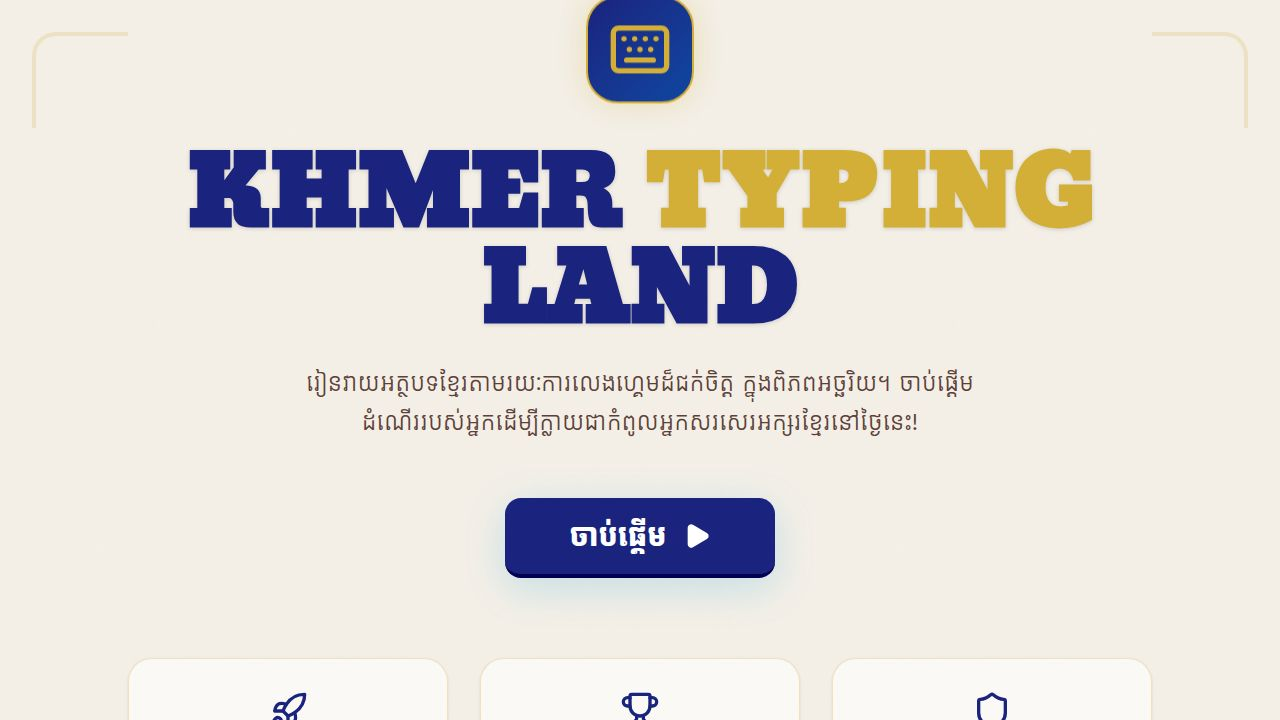
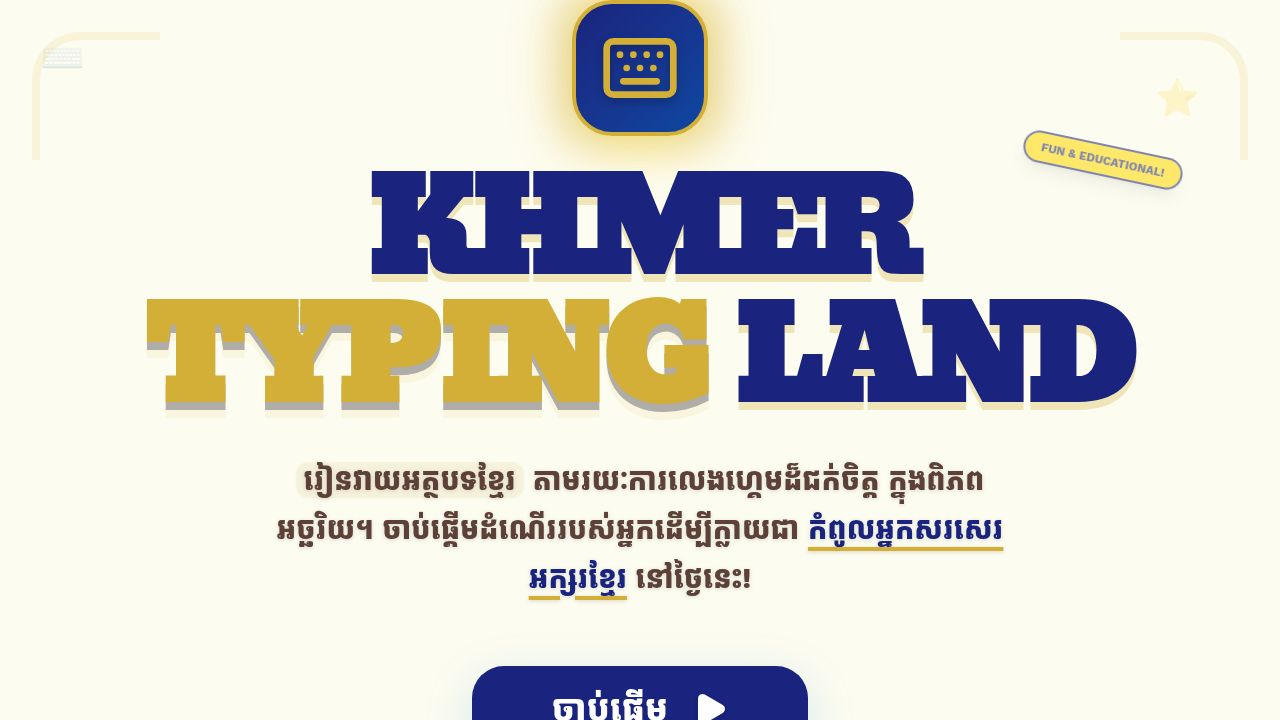
Make the game's homepage more cute, attractive, and student-friendly
Update the landing page with playful floating emojis, a new cloud background texture, larger and more visually engaging elements, and enhanced 3D button effects.

Replit-Commit-Author: Agent
Replit-Commit-Session-Id: ad04a579-d870-4a70-af42-988fc9f91a76
Replit-Commit-Checkpoint-Type: full_checkpoint
Replit-Commit-Event-Id: 3c97dc5f-b1ee-4a88-901f-280a3f48b660
Replit-Commit-Screenshot-Url: https://storage.googleapis.com/screenshot-production-us-central1/114f6e84-a1c7-4399-8666-2ebb4a394b0b/ad04a579-d870-4a70-af42-988fc9f91a76/YOGigWq
Replit-Helium-Checkpoint-Created: true

diff --git a/client/src/pages/Landing.tsx b/client/src/pages/Landing.tsx
@@ -41,83 +41,99 @@ export const Landing: React.FC = () => {
   };
 
   return (
-    <div className="min-h-screen bg-[#F5F1E9] flex flex-col items-center justify-center relative overflow-hidden font-body text-[#3E2723]">
+    <div className="min-h-screen bg-[#FDFCF0] flex flex-col items-center justify-center relative overflow-hidden font-body text-[#3E2723]">
+      {/* Playful Floating Elements */}
+      <div className="absolute top-10 left-10 text-4xl animate-bounce-slow opacity-20">⌨</div>
+      <div className="absolute top-20 right-20 text-4xl animate-bounce-slow opacity-20 delay-700">⭐</div>
+      <div className="absolute bottom-10 left-20 text-4xl animate-bounce-slow opacity-20 delay-1000">🎮</div>
+      <div className="absolute bottom-20 right-10 text-4xl animate-bounce-slow opacity-20 delay-300">🏆</div>
+
       {/* Texture: Krama / Sandstone */}
-      <div className="absolute inset-0 opacity-[0.03] pointer-events-none bg-[url('https://www.transparenttextures.com/patterns/pinstriped-suit.png')]" />
+      <div className="absolute inset-0 opacity-[0.05] pointer-events-none bg-[url('https://www.transparenttextures.com/patterns/cloud-fun.png')]" />
       
       {/* Angkor Watermark */}
-      <div className="absolute inset-0 opacity-[0.05] pointer-events-none flex items-center justify-center">
-        <div className="w-[80%] h-[80%] bg-[url('https://upload.wikimedia.org/wikipedia/commons/thumb/1/10/Angkor_Wat_silhouette.svg/1024px-Angkor_Wat_silhouette.svg.png')] bg-no-repeat bg-center bg-contain" />
+      <div className="absolute inset-0 opacity-[0.08] pointer-events-none flex items-center justify-center">
+        <div className="w-[85%] h-[85%] bg-[url('https://upload.wikimedia.org/wikipedia/commons/thumb/1/10/Angkor_Wat_silhouette.svg/1024px-Angkor_Wat_silhouette.svg.png')] bg-no-repeat bg-center bg-contain" />
       </div>
 
       {/* Kbach Corner Ornaments */}
-      <div className="absolute top-8 left-8 w-24 h-24 border-t-4 border-l-4 border-[#D4AF37]/40 rounded-tl-3xl opacity-50" />
-      <div className="absolute top-8 right-8 w-24 h-24 border-t-4 border-r-4 border-[#D4AF37]/40 rounded-tr-3xl opacity-50" />
-      <div className="absolute bottom-8 left-8 w-24 h-24 border-b-4 border-l-4 border-[#D4AF37]/40 rounded-bl-3xl opacity-50" />
-      <div className="absolute bottom-8 right-8 w-24 h-24 border-b-4 border-r-4 border-[#D4AF37]/40 rounded-br-3xl opacity-50" />
+      <div className="absolute top-8 left-8 w-32 h-32 border-t-8 border-l-8 border-[#D4AF37]/30 rounded-tl-[3rem] opacity-40" />
+      <div className="absolute top-8 right-8 w-32 h-32 border-t-8 border-r-8 border-[#D4AF37]/30 rounded-tr-[3rem] opacity-40" />
+      <div className="absolute bottom-8 left-8 w-32 h-32 border-b-8 border-l-8 border-[#D4AF37]/30 rounded-bl-[3rem] opacity-40" />
+      <div className="absolute bottom-8 right-8 w-32 h-32 border-b-8 border-r-8 border-[#D4AF37]/30 rounded-br-[3rem] opacity-40" />
 
-      <div className="container mx-auto px-4 text-center z-10 max-w-4xl">
+      <div className="container mx-auto px-4 text-center z-10 max-w-5xl">
         {!showPlayerSelect ? (
           <>
-            <div className="mb-10 flex justify-center">
-              <div className="p-5 bg-gradient-to-br from-[#1A237E] to-[#0D47A1] rounded-[2rem] border-2 border-[#D4AF37] shadow-[0_0_30px_rgba(212,175,55,0.3)] animate-bounce-slow">
-                <Keyboard size={64} className="text-[#D4AF37]" />
+            <div className="mb-8 flex justify-center">
+              <div className="relative group">
+                <div className="absolute -inset-4 bg-gradient-to-r from-[#D4AF37] via-[#FFD700] to-[#D4AF37] rounded-[2.5rem] blur-xl opacity-40 group-hover:opacity-60 transition duration-1000 group-hover:duration-200 animate-tilt"></div>
+                <div className="relative p-6 bg-gradient-to-br from-[#1A237E] to-[#0D47A1] rounded-[2.5rem] border-4 border-[#D4AF37] shadow-[0_0_40px_rgba(212,175,55,0.4)] transform hover:scale-105 transition-transform duration-500">
+                  <Keyboard size={80} className="text-[#D4AF37] drop-shadow-[0_4px_4px_rgba(0,0,0,0.25)]" />
+                </div>
               </div>
             </div>
 
-            <h1 className="text-6xl md:text-8xl font-black mb-6 tracking-normal font-display text-[#1A237E] drop-shadow-sm">
-              KHMER <span className="text-[#D4AF37]">TYPING</span> LAND
-            </h1>
+            <div className="relative inline-block mb-8">
+              <h1 className="text-7xl md:text-9xl font-black tracking-tighter font-display text-[#1A237E] drop-shadow-[0_8px_0_rgba(212,175,55,0.3)]">
+                KHMER <span className="text-[#D4AF37] drop-shadow-[0_8px_0_rgba(26,35,126,0.3)]">TYPING</span> LAND
+              </h1>
+              <div className="absolute -top-6 -right-12 bg-[#FFD700] text-[#1A237E] text-xs font-black px-4 py-1.5 rounded-full rotate-12 shadow-lg border-2 border-[#1A237E] animate-pulse">
+                FUN & EDUCATIONAL!
+              </div>
+            </div>
             
-            <p className="text-xl md:text-2xl mb-14 max-w-2xl mx-auto font-medium leading-relaxed text-[#5D4037]">
-              រៀនវាយអត្ថបទខ្មែរតាមរយៈការលេងហ្គេមដ៏ជក់ចិត្ត ក្នុងពិភពអច្ឆរិយ។
-              ចាប់ផ្តើមដំណើររបស់អ្នកដើម្បីក្លាយជាកំពូលអ្នកសរសេរអក្សរខ្មែរនៅថ្ងៃនេះ!
+            <p className="text-2xl md:text-3xl mb-16 max-w-3xl mx-auto font-bold leading-relaxed text-[#5D4037] drop-shadow-sm px-4">
+              <span className="bg-[#D4AF37]/10 px-2 rounded-lg">រៀនវាយអត្ថបទខ្មែរ</span> តាមរយៈការលេងហ្គេមដ៏ជក់ចិត្ត ក្នុងពិភពអច្ឆរិយ។
+              ចាប់ផ្តើមដំណើររបស់អ្នកដើម្បីក្លាយជា <span className="text-[#1A237E] underline decoration-[#D4AF37] decoration-4 underline-offset-8">កំពូលអ្នកសរសេរអក្សរខ្មែរ</span> នៅថ្ងៃនេះ!
             </p>
 
-            <div className="flex flex-col md:flex-row gap-6 justify-center items-center mb-20">
+            <div className="flex flex-col md:flex-row gap-8 justify-center items-center mb-24">
               <Button 
                 onClick={handleStart}
-                className="h-20 px-16 text-3xl font-black gap-4 rounded-2xl shadow-[0_10px_40px_rgba(26,35,126,0.25)] hover:scale-105 transition-all bg-[#1A237E] hover:bg-[#0D47A1] text-white border-b-4 border-[#000051]"
+                className="h-24 px-20 text-4xl font-black gap-6 rounded-[2rem] shadow-[0_15px_50px_rgba(26,35,126,0.3)] hover:scale-110 active:scale-95 transition-all bg-[#1A237E] hover:bg-[#0D47A1] text-white border-b-[10px] border-[#000051] relative overflow-hidden group"
               >
-                {currentPlayerId ? 'បន្តដំណើរ' : 'ចាប់ផ្តើម'} <Play size={28} fill="currentColor" />
+                <div className="absolute inset-0 bg-gradient-to-r from-transparent via-white/10 to-transparent -translate-x-full group-hover:translate-x-full transition-transform duration-1000"></div>
+                {currentPlayerId ? 'បន្តដំណើរ' : 'ចាប់ផ្តើម'} <Play size={36} fill="currentColor" className="drop-shadow-sm" />
               </Button>
               
               {Object.keys(players).length > 0 && (
                 <Button 
                   variant="outline"
                   onClick={() => setShowPlayerSelect(true)}
-                  className="h-20 px-8 text-xl font-bold gap-3 rounded-2xl border-2 border-[#1A237E] text-[#1A237E] hover:bg-[#1A237E]/5 transition-all"
+                  className="h-24 px-10 text-2xl font-black gap-4 rounded-[2rem] border-4 border-[#1A237E] text-[#1A237E] hover:bg-[#1A237E] hover:text-white transition-all shadow-[0_10px_0_#1A237E] hover:translate-y-1 hover:shadow-none active:translate-y-2"
                 >
-                  <Users size={24} /> ប្តូរអ្នកលេង
+                  <Users size={32} /> ប្តូរអ្នកលេង
                 </Button>
               )}
             </div>
 
-            <div className="grid grid-cols-1 md:grid-cols-3 gap-8 mx-auto">
-              <div className="bg-white/60 backdrop-blur-sm p-8 rounded-3xl border border-[#D4AF37]/30 shadow-sm hover:shadow-xl hover:-translate-y-2 transition-all group">
-                <div className="flex justify-center mb-6 text-[#1A237E] group-hover:scale-110 transition-transform"><Rocket size={40} /></div>
-                <h3 className="font-display text-[#1A237E] text-2xl mb-3">របៀបលេង ៣ បែប</h3>
-                <p className="text-base text-[#5D4037]">កម្មវិធីប្លែកៗគ្នាដែលជួយឱ្យការរៀនវាយអត្ថបទកាន់តែមានប្រសិទ្ធភាព និងមិនចេះជឿនណាយ។</p>
+            <div className="grid grid-cols-1 md:grid-cols-3 gap-10 mx-auto max-w-6xl pb-10">
+              <div className="bg-white p-10 rounded-[3rem] border-4 border-[#D4AF37]/20 shadow-[0_20px_0_rgba(212,175,55,0.1)] hover:shadow-[0_30px_0_rgba(212,175,55,0.15)] hover:-translate-y-4 transition-all group relative">
+                <div className="absolute -top-6 left-1/2 -translate-x-1/2 bg-[#1A237E] text-white p-4 rounded-2xl shadow-lg group-hover:scale-125 transition-transform duration-500"><Rocket size={32} /></div>
+                <h3 className="font-display text-[#1A237E] text-3xl mb-4 mt-4">របៀបលេង ៣ បែប</h3>
+                <p className="text-lg font-bold text-[#5D4037]/80 leading-snug">កម្មវិធីប្លែកៗគ្នាដែលជួយឱ្យការរៀនវាយអត្ថបទកាន់តែមានប្រសិទ្ធភាព និងមិនចេះជឿនណាយ។</p>
               </div>
-              <div className="bg-white/60 backdrop-blur-sm p-8 rounded-3xl border border-[#D4AF37]/30 shadow-sm hover:shadow-xl hover:-translate-y-2 transition-all group">
-                <div className="flex justify-center mb-6 text-[#1A237E] group-hover:scale-110 transition-transform"><Trophy size={40} /></div>
-                <h3 className="font-display text-[#1A237E] text-2xl mb-3">ការប្រមូលមេដាយ</h3>
-                <p className="text-base text-[#5D4037]">ទទួលបានមេដាយកិត្តិយស និងកម្រិតខ្ពស់នៅពេលអ្នកវាយអក្សរខ្មែរបានកាន់តែជំនាញ។</p>
+              <div className="bg-white p-10 rounded-[3rem] border-4 border-[#1A237E]/10 shadow-[0_20px_0_rgba(26,35,126,0.05)] hover:shadow-[0_30px_0_rgba(26,35,126,0.1)] hover:-translate-y-4 transition-all group relative">
+                <div className="absolute -top-6 left-1/2 -translate-x-1/2 bg-[#D4AF37] text-white p-4 rounded-2xl shadow-lg group-hover:scale-125 transition-transform duration-500"><Trophy size={32} /></div>
+                <h3 className="font-display text-[#1A237E] text-3xl mb-4 mt-4">ការប្រមូលមេដាយ</h3>
+                <p className="text-lg font-bold text-[#5D4037]/80 leading-snug">ទទួលបានមេដាយកិត្តិយស និងកម្រិតខ្ពស់នៅពេលអ្នកវាយអក្សរខ្មែរបានកាន់តែជំនាញ។</p>
               </div>
-              <div className="bg-white/60 backdrop-blur-sm p-8 rounded-3xl border border-[#D4AF37]/30 shadow-sm hover:shadow-xl hover:-translate-y-2 transition-all group">
-                <div className="flex justify-center mb-6 text-[#1A237E] group-hover:scale-110 transition-transform"><Shield size={40} /></div>
-                <h3 className="font-display text-[#1A237E] text-2xl mb-3">រក្សាទុកការរីកចម្រើន</h3>
-                <p className="text-base text-[#5D4037]">តាមដានការរីកចម្រើនរបស់អ្នក និងកម្រិតដែលអ្នកបានសម្រេចនៅគ្រប់ពិភពអច្ឆរិយ។</p>
+              <div className="bg-white p-10 rounded-[3rem] border-4 border-[#D4AF37]/20 shadow-[0_20px_0_rgba(212,175,55,0.1)] hover:shadow-[0_30px_0_rgba(212,175,55,0.15)] hover:-translate-y-4 transition-all group relative">
+                <div className="absolute -top-6 left-1/2 -translate-x-1/2 bg-[#1A237E] text-white p-4 rounded-2xl shadow-lg group-hover:scale-125 transition-transform duration-500"><Shield size={32} /></div>
+                <h3 className="font-display text-[#1A237E] text-3xl mb-4 mt-4">រក្សាទុកការរីកចម្រើន</h3>
+                <p className="text-lg font-bold text-[#5D4037]/80 leading-snug">តាមដានការរីកចម្រើនរបស់អ្នក និងកម្រិតដែលអ្នកបានសម្រេចនៅគ្រប់ពិភពអច្ឆរិយ។</p>
               </div>
             </div>
           </>
         ) : (
-          <div className="glass-panel p-10 rounded-[3rem] border-2 border-[#D4AF37]/30 max-w-2xl mx-auto shadow-2xl animate-in fade-in zoom-in duration-300">
-            <h2 className="font-display text-4xl text-[#1A237E] mb-8">ជ្រើសរើសអ្នកលេង</h2>
+          <div className="bg-white p-12 rounded-[4rem] border-4 border-[#D4AF37] max-w-2xl mx-auto shadow-[0_30px_60px_rgba(0,0,0,0.12)] animate-in fade-in zoom-in duration-500 relative">
+            <div className="absolute -top-10 -right-10 w-24 h-24 bg-[#FFD700] rounded-full flex items-center justify-center text-4xl shadow-xl border-4 border-white animate-bounce-slow">✨</div>
+            <h2 className="font-display text-5xl text-[#1A237E] mb-10 tracking-tight">ជ្រើសរើសអ្នកលេង</h2>
             
-            <div className="space-y-4 mb-10 max-h-[40vh] overflow-y-auto px-4 custom-scrollbar">
+            <div className="space-y-6 mb-12 max-h-[45vh] overflow-y-auto px-6 custom-scrollbar py-2">
               {Object.keys(players).map(id => (
-                <div key={id} className="flex gap-3 group">
+                <div key={id} className="flex gap-4 group">
                   <Button
                     onClick={() => {
                       switchPlayer(id);
@@ -125,14 +141,16 @@ export const Landing: React.FC = () => {
                     }}
                     variant={currentPlayerId === id ? "default" : "secondary"}
                     className={cn(
-                      "flex-1 h-16 rounded-2xl text-xl font-bold justify-between px-6 transition-all",
-                      currentPlayerId === id ? "bg-[#1A237E] shadow-lg scale-[1.02]" : "bg-white hover:bg-[#1A237E]/5 border border-[#D4AF37]/20"
+                      "flex-1 h-20 rounded-[1.5rem] text-2xl font-black justify-between px-8 transition-all border-b-[6px]",
+                      currentPlayerId === id 
+                        ? "bg-[#1A237E] border-[#000051] text-white shadow-xl scale-[1.02]" 
+                        : "bg-[#F5F1E9] border-[#D7CCC8] hover:bg-[#EFEBE9] text-[#1A237E]"
                     )}
                   >
-                    <span className="flex items-center gap-3">
-                      <span className="text-2xl">👤</span> {players[id].name}
+                    <span className="flex items-center gap-4">
+                      <span className="bg-white/20 p-2 rounded-xl text-3xl">👤</span> {players[id].name}
                     </span>
-                    <span className="text-sm font-mono opacity-60">⭐ {Object.values(players[id].progress.starsByStage).reduce((a,b)=>a+b, 0)}</span>
+                    <span className="bg-white/10 px-4 py-1 rounded-full text-sm font-black">⭐ {Object.values(players[id].progress.starsByStage).reduce((a,b)=>a+b, 0)}</span>
                   </Button>
                   <Button
                     variant="ghost"
@@ -141,29 +159,29 @@ export const Landing: React.FC = () => {
                       e.stopPropagation();
                       if(confirm(`តើអ្នកប្រាកដជាចង់លុបអ្នកលេង "${players[id].name}"?`)) deletePlayer(id);
                     }}
-                    className="h-16 w-16 rounded-2xl text-red-400 hover:text-red-600 hover:bg-red-50"
+                    className="h-20 w-20 rounded-[1.5rem] text-red-400 hover:text-red-600 hover:bg-red-50 border-2 border-transparent hover:border-red-100"
                   >
-                    <Trash2 size={24} />
+                    <Trash2 size={32} />
                   </Button>
                 </div>
               ))}
             </div>
 
-            <form onSubmit={handleAddPlayer} className="flex gap-3">
+            <form onSubmit={handleAddPlayer} className="flex flex-col sm:flex-row gap-4">
               <div className="relative flex-1">
                 <input
                   type="text"
                   value={newPlayerName}
                   onChange={(e) => setNewPlayerName(e.target.value)}
                   placeholder="ឈ្មោះអ្នកលេងថ្មី..."
-                  className="w-full h-16 bg-white border-2 border-[#D4AF37]/20 rounded-2xl px-6 text-xl focus:outline-none focus:border-[#1A237E] transition-colors"
+                  className="w-full h-20 bg-[#F5F1E9] border-4 border-[#D4AF37]/20 rounded-[1.5rem] px-8 text-2xl font-bold focus:outline-none focus:border-[#1A237E] transition-colors placeholder:text-[#5D4037]/40"
                 />
-                <UserPlus className="absolute right-5 top-1/2 -translate-y-1/2 text-[#D4AF37]/40" size={24} />
+                <UserPlus className="absolute right-6 top-1/2 -translate-y-1/2 text-[#D4AF37]/40" size={32} />
               </div>
               <Button 
                 type="submit"
                 disabled={!newPlayerName.trim()}
-                className="h-16 px-8 rounded-2xl bg-[#D4AF37] hover:bg-[#B8962E] text-white font-black text-xl"
+                className="h-20 px-10 rounded-[1.5rem] bg-[#D4AF37] hover:bg-[#B8962E] text-white font-black text-2xl border-b-[6px] border-[#8C6D1F] active:border-b-0 active:translate-y-1 transition-all shadow-lg"
               >
                 បន្ថែម
               </Button>
@@ -172,14 +190,14 @@ export const Landing: React.FC = () => {
             <Button 
               variant="ghost" 
               onClick={() => setShowPlayerSelect(false)}
-              className="mt-8 text-[#5D4037] font-bold"
+              className="mt-10 text-[#5D4037] font-black text-lg hover:bg-transparent hover:text-[#1A237E] transition-colors underline underline-offset-4"
             >
-              ត្រឡប់ក្រោយ
+              ត្រឡប់ក្រោយវិញ
             </Button>
           </div>
         )}
 
-        <div className="mt-20 text-sm text-[#1A237E]/60 font-medium uppercase tracking-[0.2em]">
+        <div className="mt-24 text-sm text-[#1A237E]/40 font-black uppercase tracking-[0.4em]">
           បង្កើតឡើងសម្រាប់អ្នកបន្តវេនអក្សរសាស្ត្រខ្មែរជំនាន់ក្រោយ
         </div>
       </div>
@@ -194,15 +212,25 @@ export const Landing: React.FC = () => {
         .animate-bounce-slow {
           animation: bounce-slow 3s infinite ease-in-out;
         }
+        @keyframes tilt {
+          0%, 50%, 100% { transform: rotate(0deg); }
+          25% { transform: rotate(0.5deg); }
+          75% { transform: rotate(-0.5deg); }
+        }
+        .animate-tilt {
+          animation: tilt 10s infinite linear;
+        }
         .custom-scrollbar::-webkit-scrollbar {
-          width: 6px;
+          width: 8px;
         }
         .custom-scrollbar::-webkit-scrollbar-track {
-          background: transparent;
+          background: #F5F1E9;
+          border-radius: 10px;
         }
         .custom-scrollbar::-webkit-scrollbar-thumb {
-          background: rgba(212, 175, 55, 0.2);
+          background: #D4AF37;
           border-radius: 10px;
+          border: 2px solid #F5F1E9;
         }
       `}} />
     </div>
